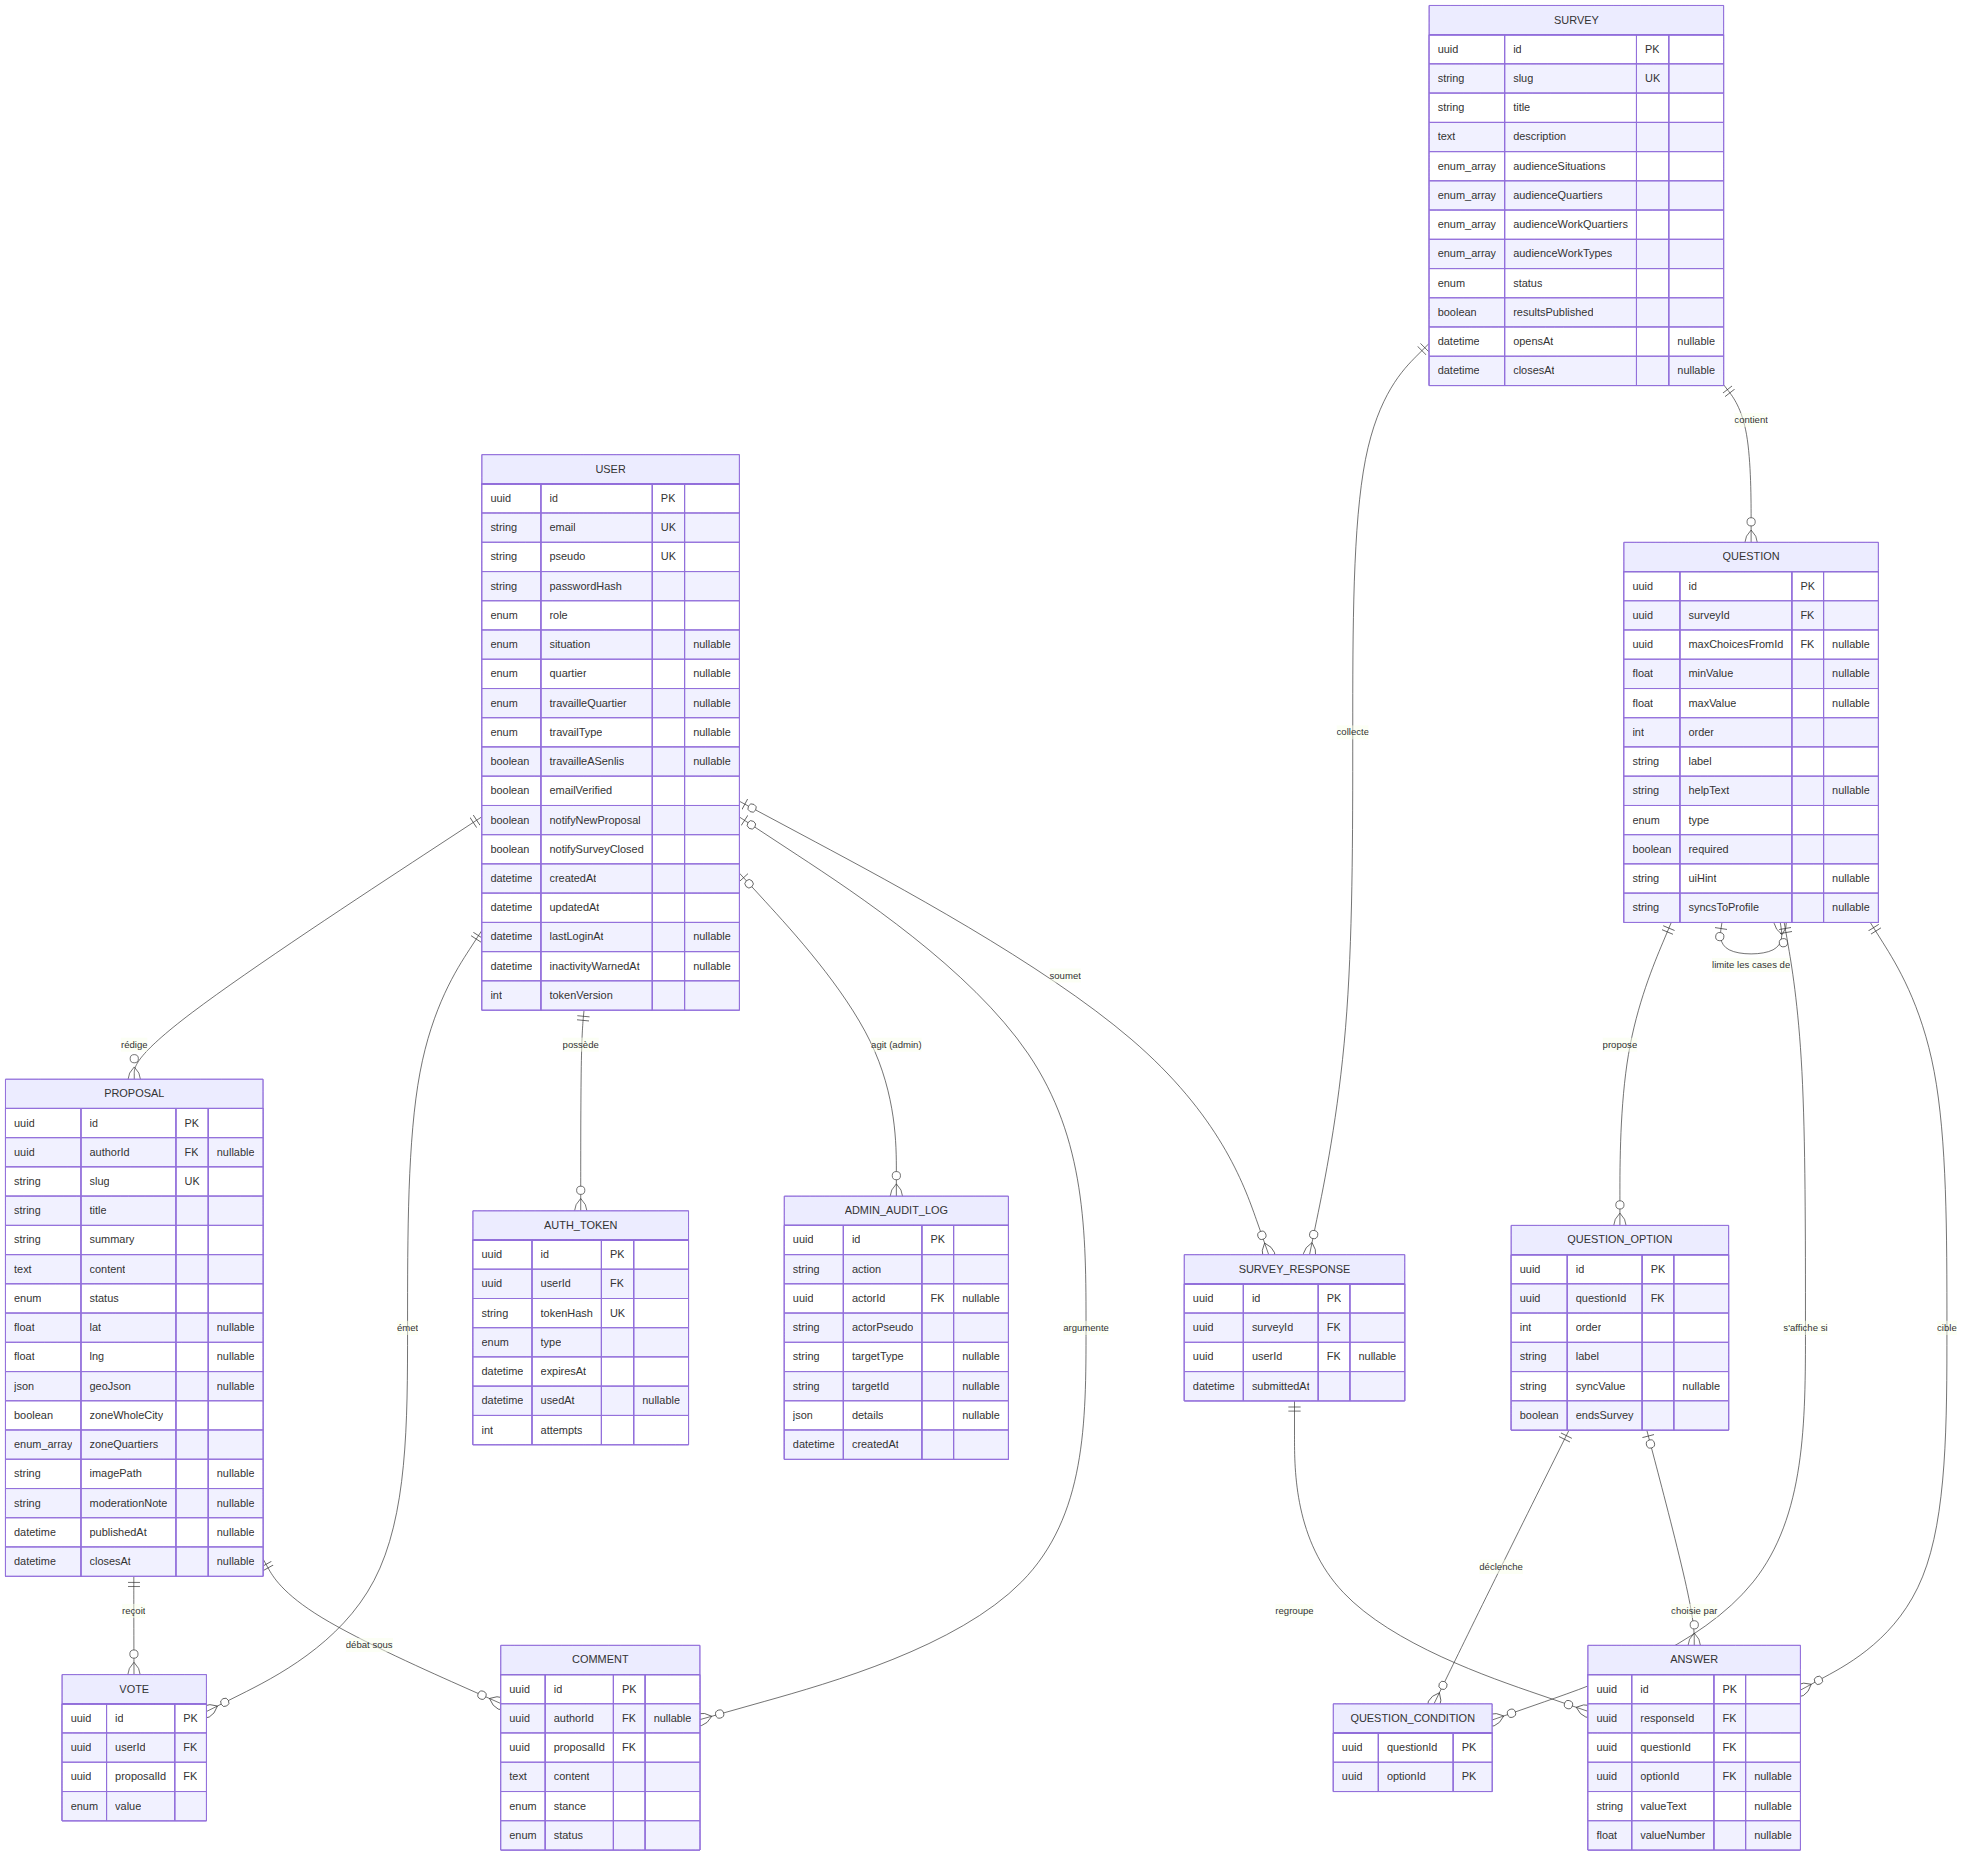
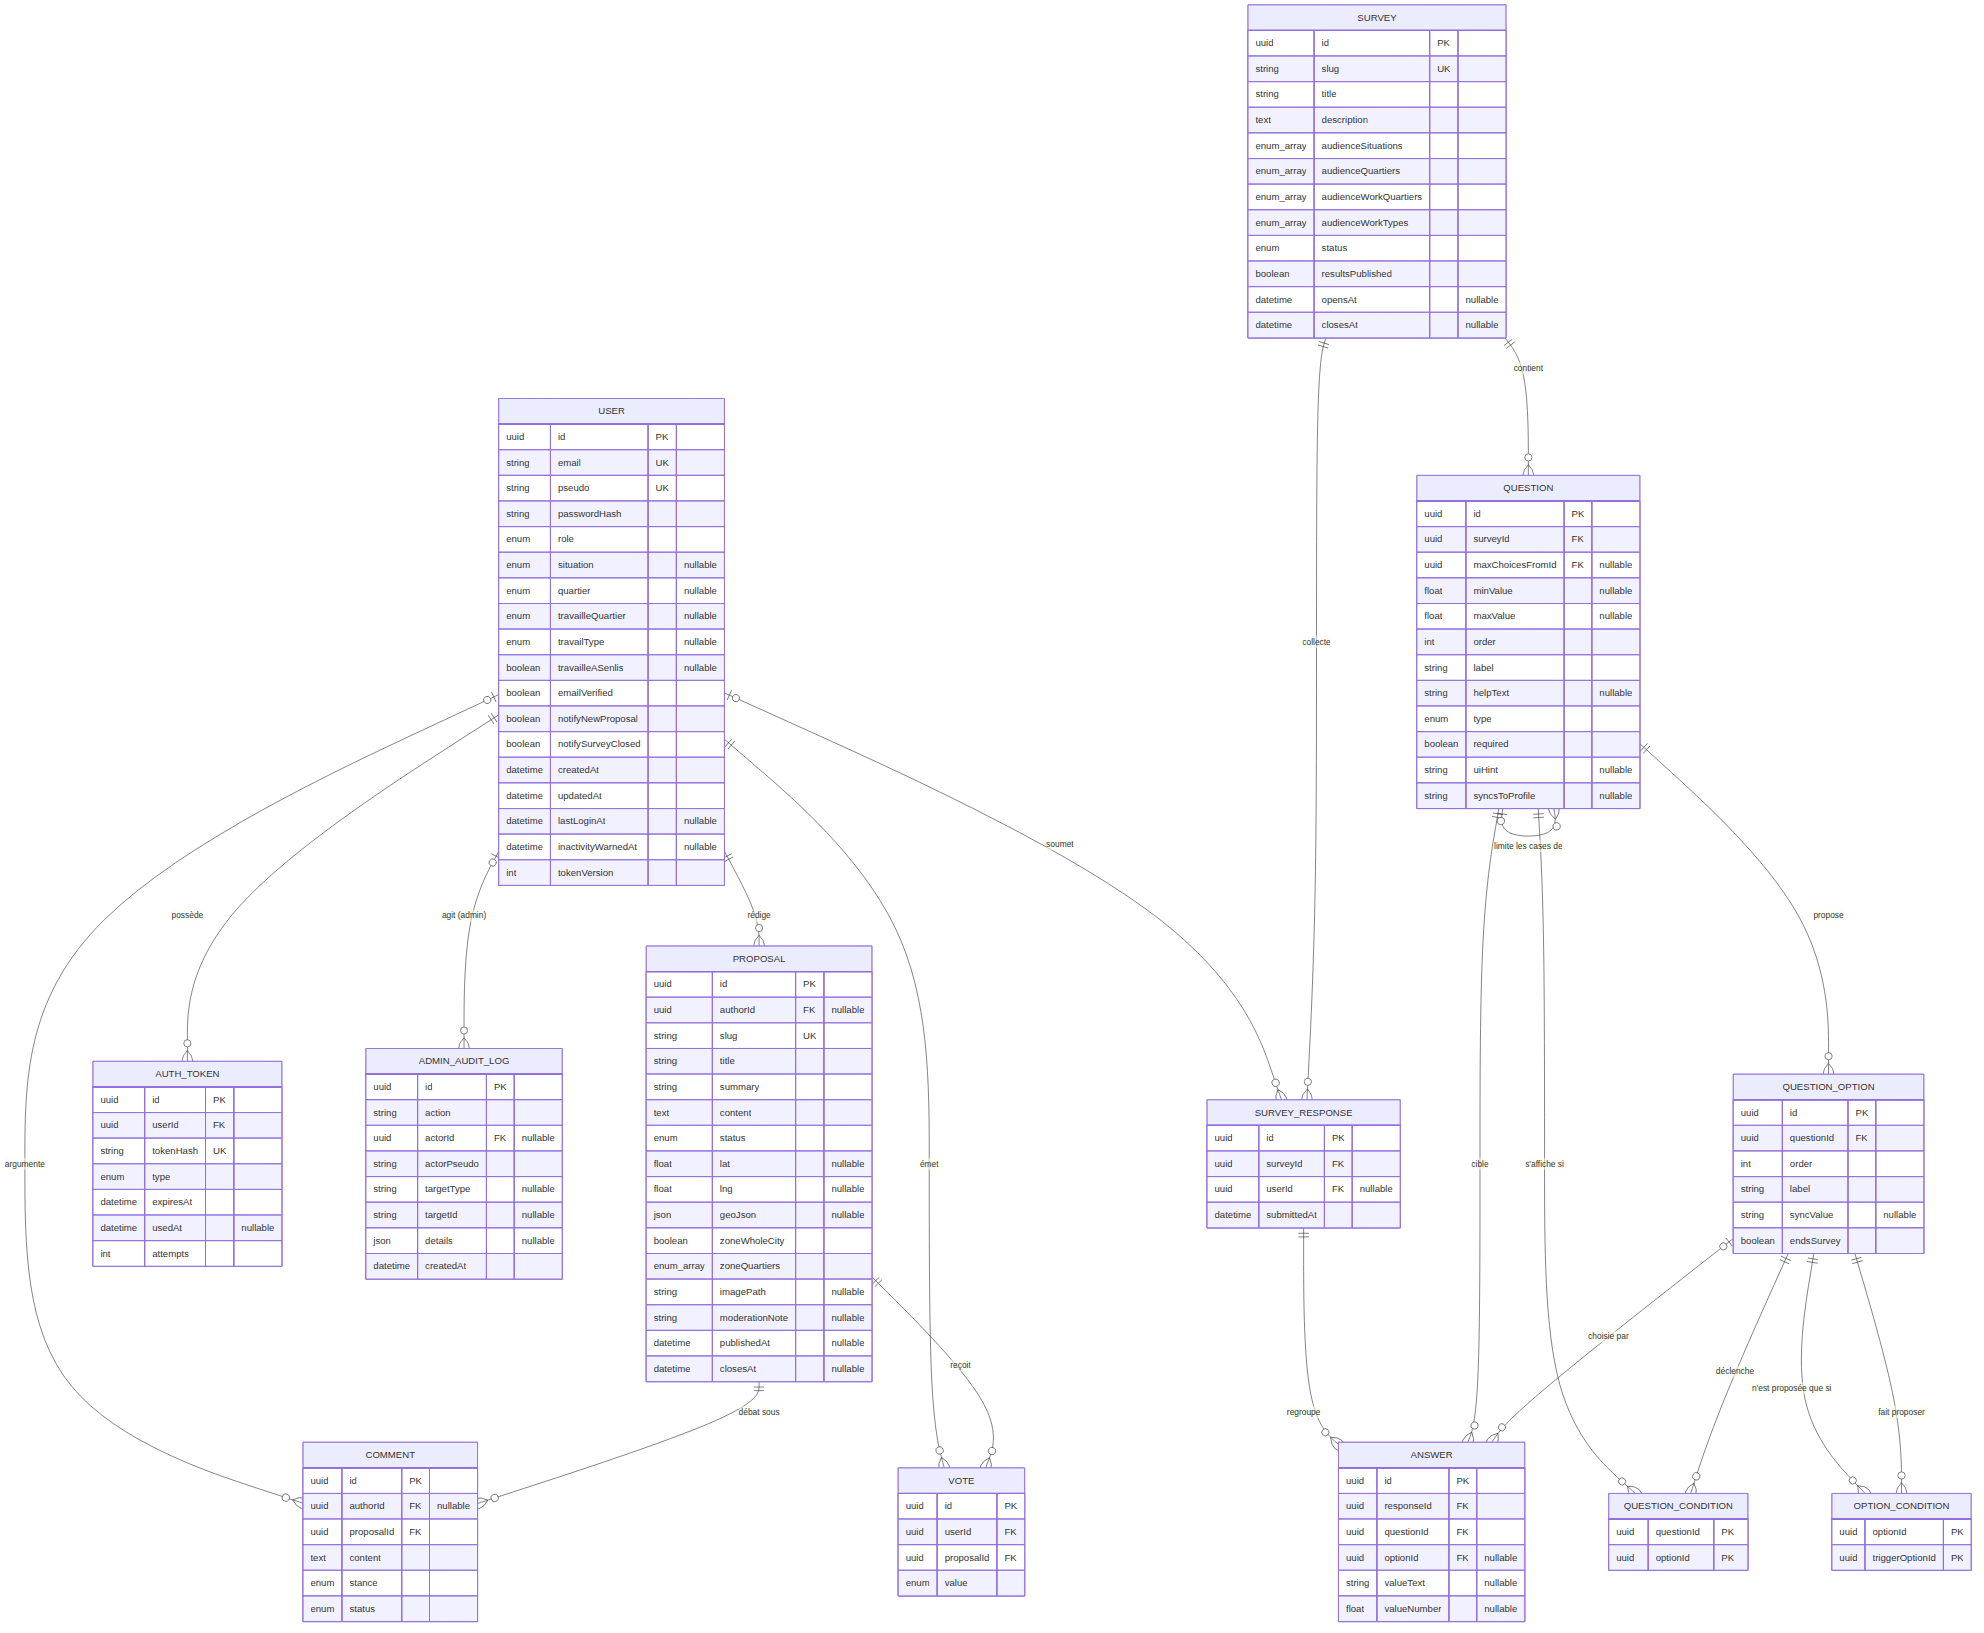
docs: S5R2-02 livrée — options conditionnelles (schéma, ERD, dictionnaire, Merise, kanban)

diff --git a/16-kanban-issues-complet.md b/16-kanban-issues-complet.md
@@ -42,6 +42,8 @@
 >
 > **S5R2-13 livrée** (12/10/2026) : `utils/draftStorage.js` (clé `senlis:draft:<compte>:<formulaire>`, 7 jours, effacement à la déconnexion) et hook `useFormDraft` (rien n'est enregistré tant que rien n'a été modifié ; chaque modification ensuite ; pause pendant la décision). Admin et Admin-test : écran « Une saisie non enregistrée a été retrouvée » — « Reprendre ma saisie » / « Repartir de zéro » — à la place du formulaire (enquête et proposition, création et modification ; l'image d'une proposition n'est pas gardée). Citoyen : reprise automatique à la question atteinte, réponses précédentes conservées (« ← Précédent »), message « Nous avons repris vos réponses du… » avec « Recommencer à zéro » ; réponses remises en place seulement si la question et l'option existent encore ; jamais en mode test. Politique de confidentialité (`constants/legal.js`, mise à jour du 12/10) et registre (fiche 3).
 >
+> **S5R2-02 livrée** (12/10/2026) : table `OptionCondition` (migration `option_conditions`) ; moteur `surveyPath` (questions affichées ET options proposées ; question sans option proposée sautée ; choix non proposé ignoré), copie navigateur vérifiée **identique** par un test ; option non proposée refusée à l'envoi et en mode test (400) ; résultats : `offeredTo` (« proposée à N personnes ») ; constructeur : « + Proposer seulement si… » sous chaque option (questions antérieures seulement), nettoyage et déplacements tenant compte des conditions d'options ; modèles d'enquête : `showIf` sur une option ; options nommées pour les lecteurs d'écran.
+>
 > **Légende** : ✅ livré (mergé sur `dev`) · 🔶 partiellement livré · sans marque = à faire.
 >
 > **Gabarit d'issue** (à enregistrer comme template GitHub) : *Contexte* (lien cahier des charges) · *Critères d'acceptation* (cases à cocher) · *Definition of Done rappelée*.
@@ -204,7 +206,7 @@
 | **S5R2-11** | **`feat(api+bdd+client): rôle « Admin-test » (EDITOR) pour la mairie ou un partenaire — accès à l'administration limité aux BROUILLONS : créer, modifier, supprimer et tester (mode test) propositions et enquêtes ; jamais publier, clôturer, voir les réponses réelles, gérer les comptes ; 2FA comme un admin ; actions journalisées ; promotion depuis « Comptes »`** ✅ | **`lot:1` `type:feature` `zone:api` `zone:bdd` `zone:client` `prio:haute`** | **`feat/editor-role`** | **1,5 j** | **J87–J88** |
 | **S5R2-12** | **`feat(client): modèles en premier — « Partir d'un modèle » placé en tête du formulaire d'enquête (avant le titre), et modèles de proposition (aménagement de l'espace public, mobilité et stationnement, végétalisation, animation ou événement) en tête du formulaire de proposition : titre, accroche et argumentaire structuré (contexte, ce qui changerait, pour qui, questions ouvertes) préremplis`** ✅ | **`lot:1` `type:feature` `zone:client`** | **`feat/templates-first`** | **1 j** | **J89** |
 | **S5R2-13** | **`feat(client): sauvegarde automatique des saisies en cours — l'enquête ou la proposition en cours de création ou de modification (admin, Admin-test) et les réponses déjà données à une enquête (citoyen, retour en arrière conservé) sont gardées dans le navigateur ; « Reprendre » ou « Repartir de zéro » au retour ; effacées après l'envoi, à la déconnexion et au bout de 7 jours ; jamais en mode test ; politique de confidentialité et registre mis à jour`** ✅ | **`lot:1` `type:feature` `zone:client` `rgpd`** | **`feat/autosave-drafts`** | **1 j** | **J90** |
-| **S5R2-02** | **`feat(api+bdd+client): options conditionnelles — une option n'apparaît que si l'une de certaines réponses précédentes a été choisie (OU) ; API, moteur navigateur, constructeur`** | **`lot:1` `type:feature` `zone:api` `zone:bdd` `zone:client`** | **`feat/conditional-options`** | **1,5 j** | **J91–J92** |
+| **S5R2-02** | **`feat(api+bdd+client): options conditionnelles — une option n'apparaît que si l'une de certaines réponses précédentes a été choisie (OU) ; API, moteur navigateur, constructeur`** ✅ | **`lot:1` `type:feature` `zone:api` `zone:bdd` `zone:client`** | **`feat/conditional-options`** | **1,5 j** | **J91–J92** |
 | **S5R2-06** | **`feat(api+bdd+client): le centre en deux quartiers — « Centre historique » (ex-Centre-Sud du plan 2018) et « Quartier Saint-Vincent » (ex-Centre-Est – Saint-Vincent) ; contours tracés avec un outil admin d'après le plan municipal ; couleurs et autres quartiers inchangés`** | **`lot:1` `type:feature` `zone:api` `zone:bdd` `zone:client`** | **`feat/centre-saint-vincent`** | **2 j** | **J92–J94** |
 | **S5R2-03** | **`feat(data): enquête stationnement v3.1 — relecture complète pour la présentation à la mairie ; EDPM, activités en 6 familles + « Autre » → « Laquelle ? » facultative, « voitures ou motos », bus régional pour les résidents d'une autre ville (option conditionnelle), Saint-Vincent hors du périmètre ; seed --remplacer (dev)`** | **`lot:1` `type:feature` `zone:api`** | **`feat/parking-survey-v3-1`** | **1 j** | **J94–J95** |
 | **S5R2-04** | **`feat(client): résultats d'enquête avec Chart.js (barres, secteurs) — chargé seulement sur la page des résultats, nombres en texte conservés à côté (accessibilité)`** | **`lot:1` `type:feature` `zone:client`** | **`feat/results-chartjs`** | **1 j** | **J95–J96** |

diff --git a/08-merise-mcd-mld-mpd.md b/08-merise-mcd-mld-mpd.md
@@ -114,6 +114,7 @@ flowchart TB
 | UTILISATEUR `(0,n)` VOTER `(0,n)` PROPOSITION | Association plusieurs-à-plusieurs **porteuse** de l'attribut {valeur} — elle deviendra une table dans le MLD |
 | QUESTION `(1,1)` CONTIENT | Une question appartient à *exactement une* enquête — pas de question orpheline |
 | QUESTION `(0,n)` CONDITIONNE | Une question peut dépendre de **plusieurs** options de questions antérieures, et s'affiche si l'une est choisie (OU — S5R-05) ; `0` = toujours affichée. Association **plusieurs-à-plusieurs** → devient la relation `QuestionCondition` au MLD |
+| OPTION `(0,n)` CONDITIONNE_OPTION | S5R2-02 : une option peut n'être proposée que si l'une de **plusieurs** options de questions antérieures a été choisie (OU) ; `0` = toujours proposée. Association réflexive plusieurs-à-plusieurs sur OPTION → relation `OptionCondition` au MLD |
 | ENQUÊTE `(1,n)` CONTIENT | Une enquête contient *au moins une* question — règle métier (une enquête vide n'a pas de sens), vérifiée par l'API à l'ouverture |
 
 ---
@@ -157,6 +158,10 @@ Question (id, label, helpText, type, required, "order", uiHint,
 QuestionCondition (#questionId, #optionId)        ← association CONDITIONNE (0,n)-(0,n)
      PK : (questionId, optionId)
      FK : questionId → Question(id) · FK : optionId → QuestionOption(id)
+
+OptionCondition (#optionId, #triggerOptionId)     ← association CONDITIONNE_OPTION (S5R2-02)
+     PK : (optionId, triggerOptionId)
+     FK : optionId → QuestionOption(id) · FK : triggerOptionId → QuestionOption(id)
 
 QuestionOption (id, label, "order", syncValue, endsSurvey, #questionId)
      PK : id · FK : questionId → Question(id) · UNIQUE : (questionId, "order")
@@ -333,6 +338,13 @@ CREATE TABLE "QuestionCondition" (
   "questionId" TEXT NOT NULL REFERENCES "Question"("id")       ON DELETE CASCADE ON UPDATE CASCADE,
   "optionId"   TEXT NOT NULL REFERENCES "QuestionOption"("id") ON DELETE CASCADE ON UPDATE CASCADE,
   CONSTRAINT "QuestionCondition_pkey" PRIMARY KEY ("questionId", "optionId")
+);
+
+-- S5R2-02 : options conditionnelles (plusieurs déclencheurs = OU)
+CREATE TABLE "OptionCondition" (
+  "optionId"        TEXT NOT NULL REFERENCES "QuestionOption"("id") ON DELETE CASCADE ON UPDATE CASCADE,
+  "triggerOptionId" TEXT NOT NULL REFERENCES "QuestionOption"("id") ON DELETE CASCADE ON UPDATE CASCADE,
+  CONSTRAINT "OptionCondition_pkey" PRIMARY KEY ("optionId", "triggerOptionId")
 );
 
 -- S5A-06 : main courante des actions d'administration (6 mois)

diff --git a/02-diagramme-erd.md b/02-diagramme-erd.md
@@ -20,6 +20,8 @@ erDiagram
     QUESTION ||--o{ QUESTION_OPTION : "propose"
     QUESTION ||--o{ QUESTION_CONDITION : "s'affiche si"
     QUESTION_OPTION ||--o{ QUESTION_CONDITION : "déclenche"
+    QUESTION_OPTION ||--o{ OPTION_CONDITION : "n'est proposée que si"
+    QUESTION_OPTION ||--o{ OPTION_CONDITION : "fait proposer"
     QUESTION |o--o{ QUESTION : "limite les cases de"
     SURVEY_RESPONSE ||--o{ ANSWER : "regroupe"
     QUESTION ||--o{ ANSWER : "cible"
@@ -136,6 +138,10 @@ erDiagram
         uuid questionId PK
         uuid optionId PK
     }
+    OPTION_CONDITION {
+        uuid optionId PK
+        uuid triggerOptionId PK
+    }
     SURVEY_RESPONSE {
         uuid id PK
         uuid surveyId FK
@@ -180,6 +186,7 @@ erDiagram
 | Proposal → Vote / Comment | CASCADE | Sans la proposition, plus d'objet |
 | Survey → Question → Option → Answer | CASCADE | Suppression en chaîne d'une enquête entière |
 | Question / QuestionOption → QuestionCondition | CASCADE | Une condition n'a plus de sens sans sa question ou son option — la question conditionnée, elle, reste |
+| QuestionOption → OptionCondition (les deux côtés) | CASCADE | S5R2-02 : supprimer l'option conditionnelle ou son déclencheur supprime la condition — l'option restante redevient « toujours proposée » |
 | Question → Question (limite de cases) | SET NULL | Supprimer la question « Nombre » de référence lève la limite, sans toucher à la question limitée |
 
 > ⚠ **Limite RGPD à connaître** : l'anonymisation par `SET NULL` rompt le lien au compte, mais une réponse `TEXTE_LIBRE` peut elle-même contenir une donnée identifiante (« j'habite au 12 rue X »). Voir l'audit `21-audit-securite-rgpd-accessibilite.md`.

diff --git a/03-dictionnaire-de-donnees.md b/03-dictionnaire-de-donnees.md
@@ -160,6 +160,15 @@
 
 > Plusieurs lignes pour une même question = « OU » : elle s'affiche si l'une des options a été choisie. Aucune ligne = question toujours affichée. Remplace l'ancien champ `QUESTION.showIfOptionId` (une seule condition possible).
 
+## OPTION_CONDITION — condition d'une option (S5R2-02)
+
+| Attribut | Type | Contraintes | Description |
+|---|---|---|---|
+| optionId | UUID | PK (composée), FK → QUESTION_OPTION, CASCADE | L'option conditionnelle (ex. « Bus régional ») |
+| triggerOptionId | UUID | PK (composée), FK → QUESTION_OPTION, CASCADE | L'option qui la fait proposer, choisie à une question **antérieure** (ex. « Une autre ville ») |
+
+> Même principe que QUESTION_CONDITION, une option plus bas : plusieurs lignes = « OU ». Aucune ligne = option toujours proposée. Une question dont aucune option n'est proposée est sautée. Une option non proposée est refusée à l'envoi (400) ; dans les résultats, `offeredTo` indique à combien de personnes elle a été proposée.
+
 ## ADMIN_AUDIT_LOG — Journal des actions d'administration (S5A-06)
 
 | Attribut | Type | Contraintes | Description |
